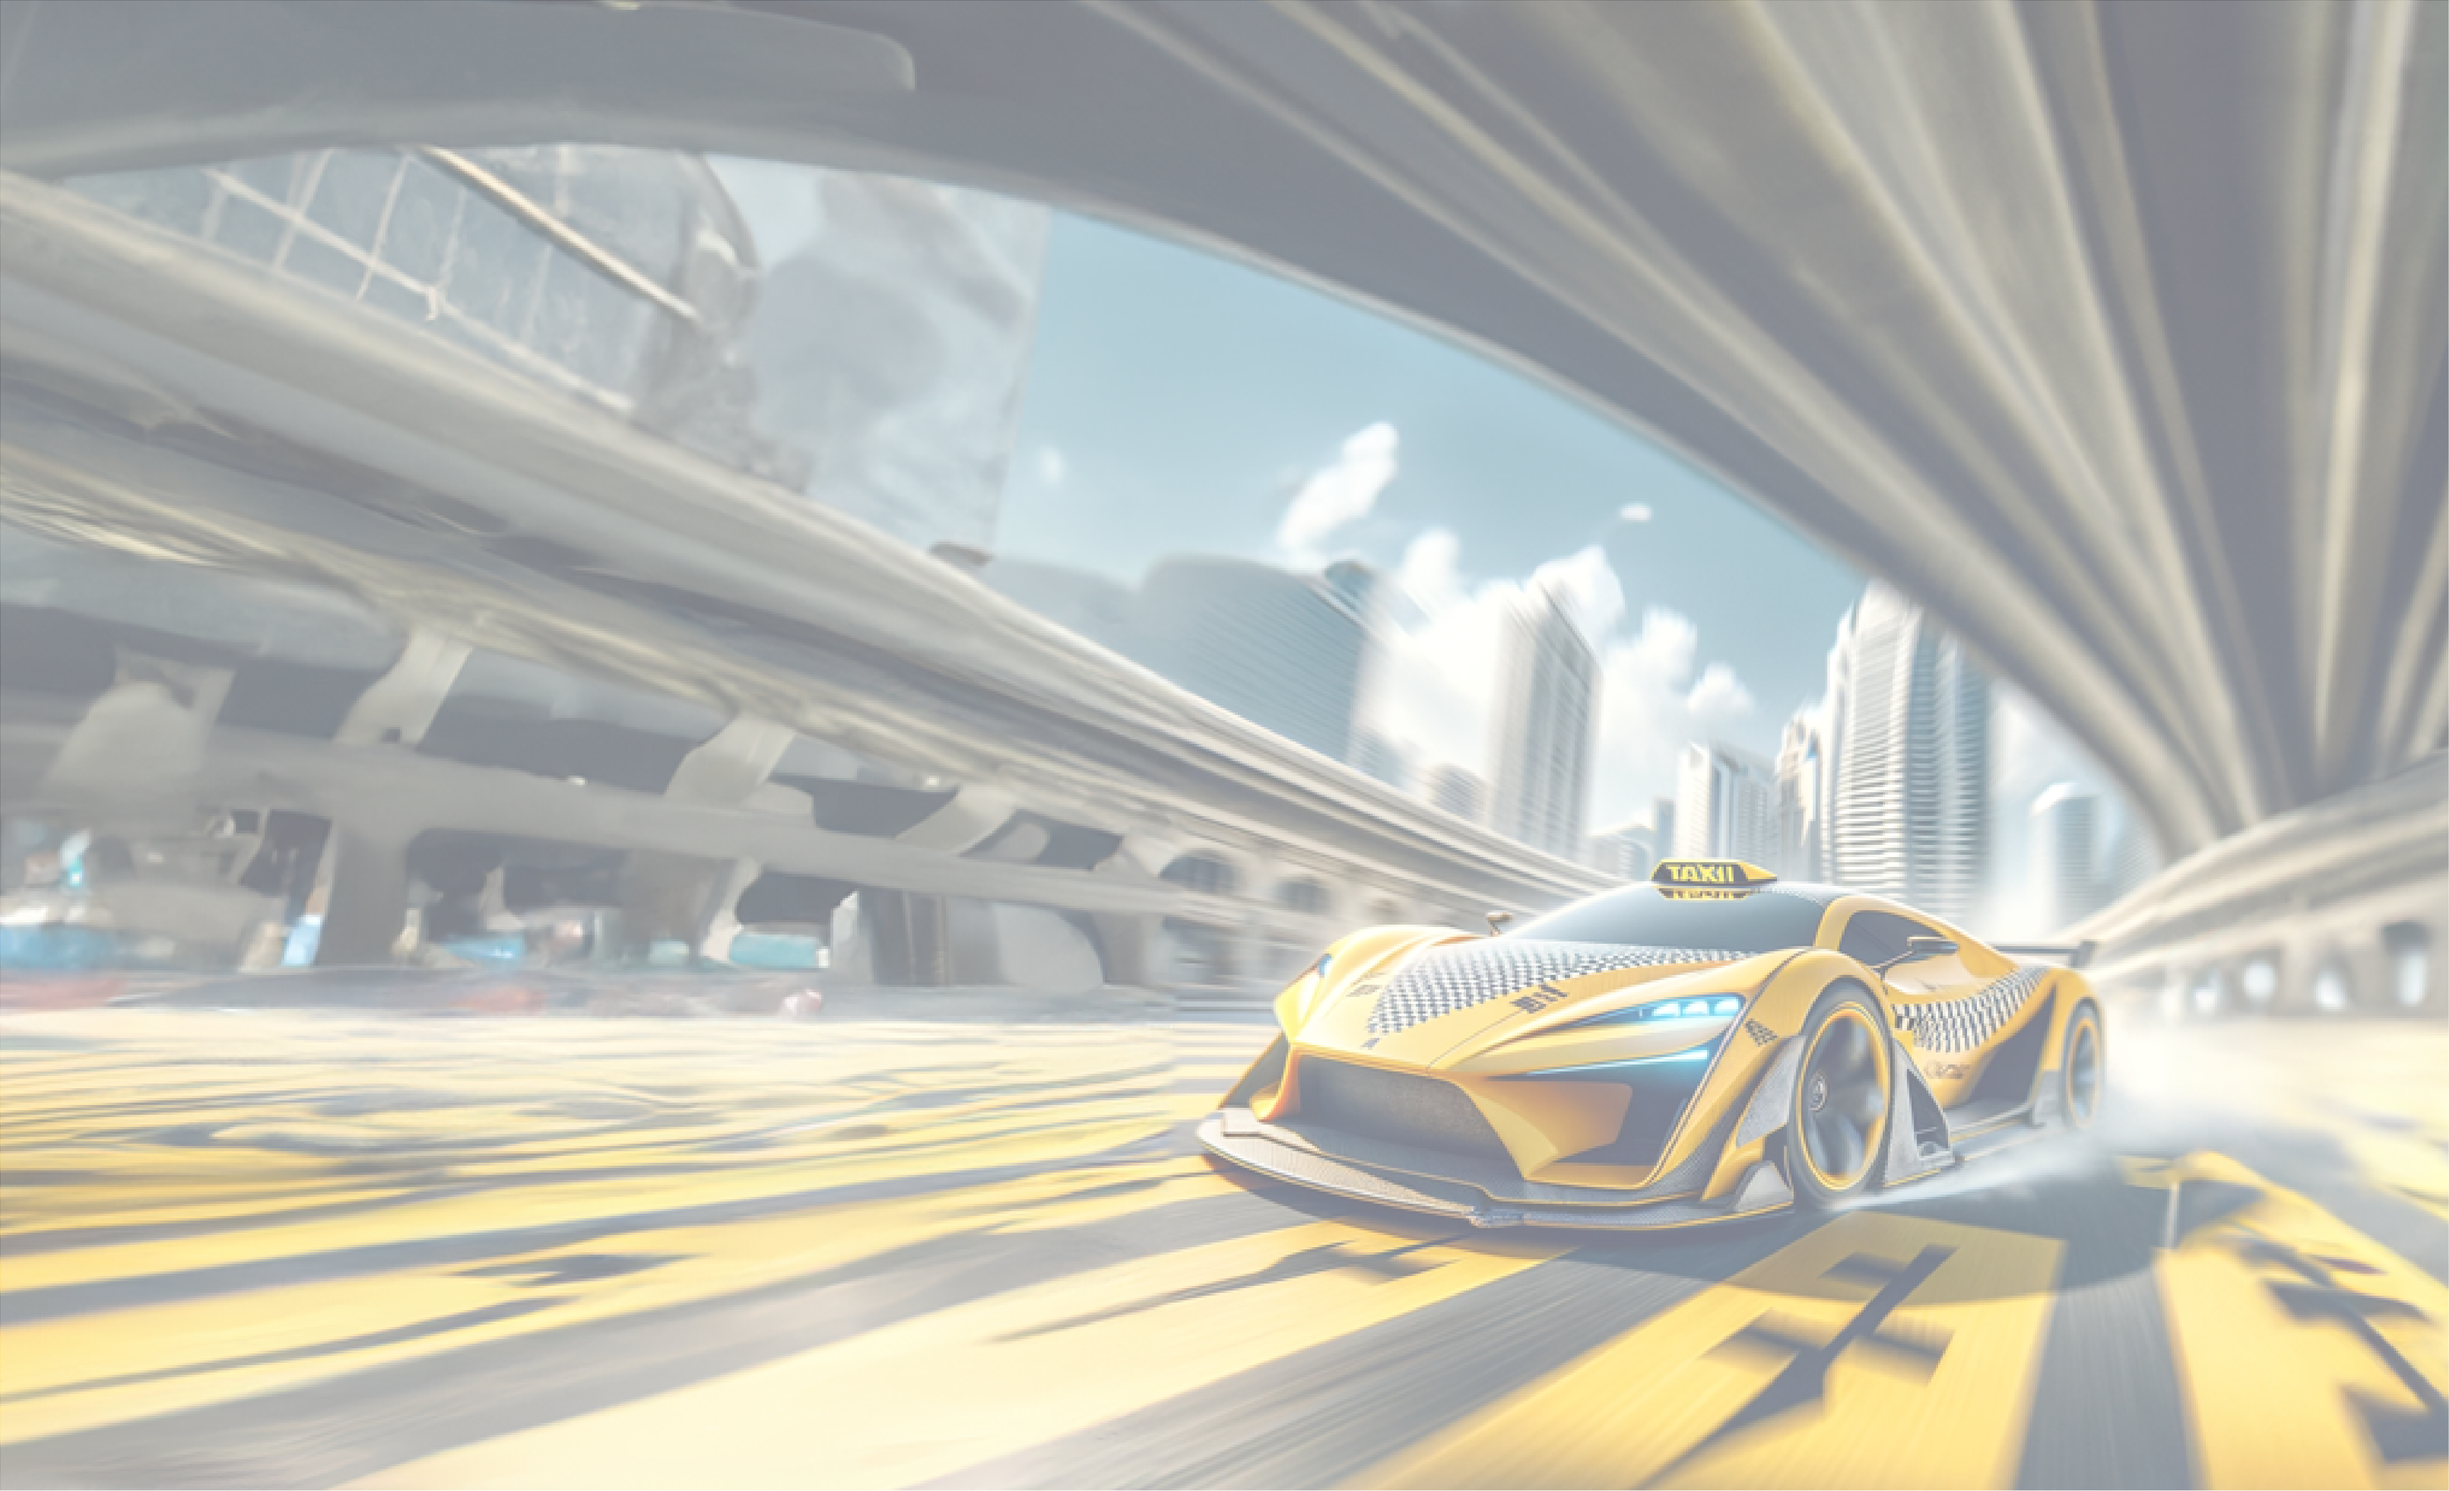
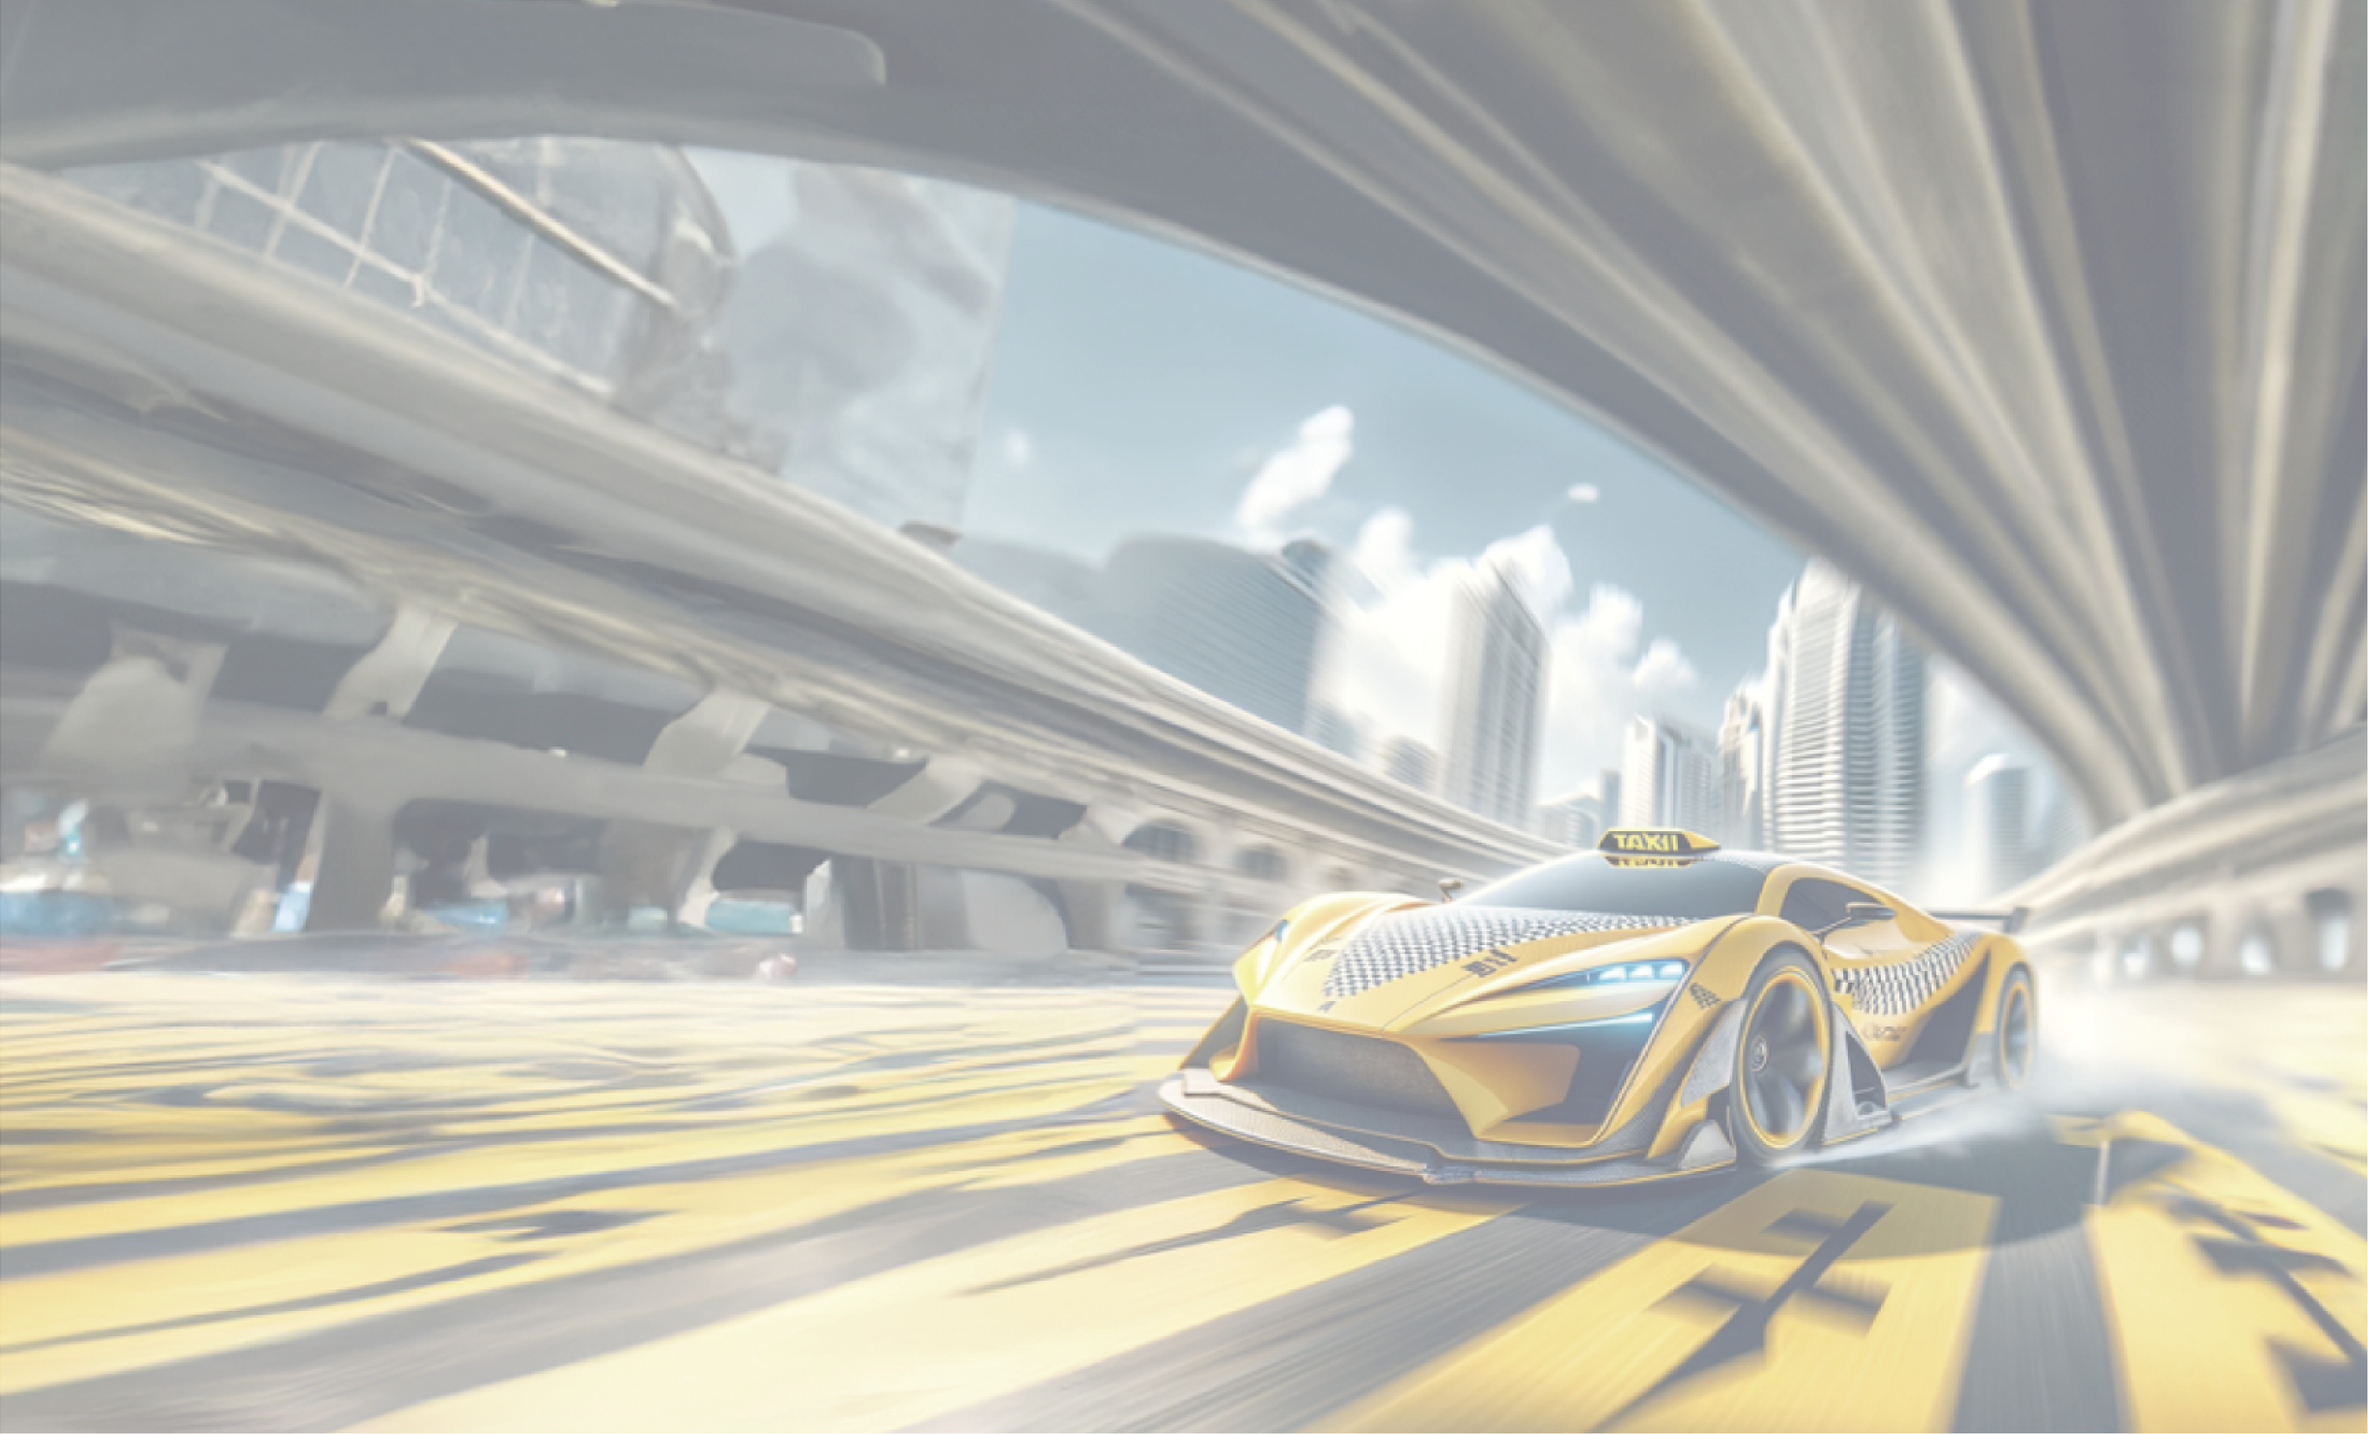
色々かえた

diff --git a/home/home.css b/home/home.css
@@ -47,16 +47,6 @@ header img {
   font-family: "ヒラギノ丸ゴ ProN";
 }
 
-#app {
-  background-image: url("./home/乗りたくの背景.png"); /* 画像のパスを指定 */
-  background-size: auto; /* 背景画像をディビジョンに合わせて自動調整 */
-  background-repeat: no-repeat; /* 画像を繰り返さないように設定 */
-}
-
-#app * {
-  background-color: rgba(255, 255, 255, 0.8); /* 要素の背景に半透明の白を設定 */
-}
-
 #app,
 #loginSection {
   max-width: 600px;

diff --git a/index.html b/index.html
@@ -24,6 +24,14 @@
         });
       });
     </script>
+    <style>
+      body {
+        background-image: url('./home/乗りたくの背景.png');
+        background-size: cover; /* ページ全体をカバー */
+        background-repeat: no-repeat; /* 画像を繰り返さない */
+        background-attachment: scroll; /* 背景画像の位置を固定 */
+      }
+    </style>
   </head>
   </head>
   <body>
